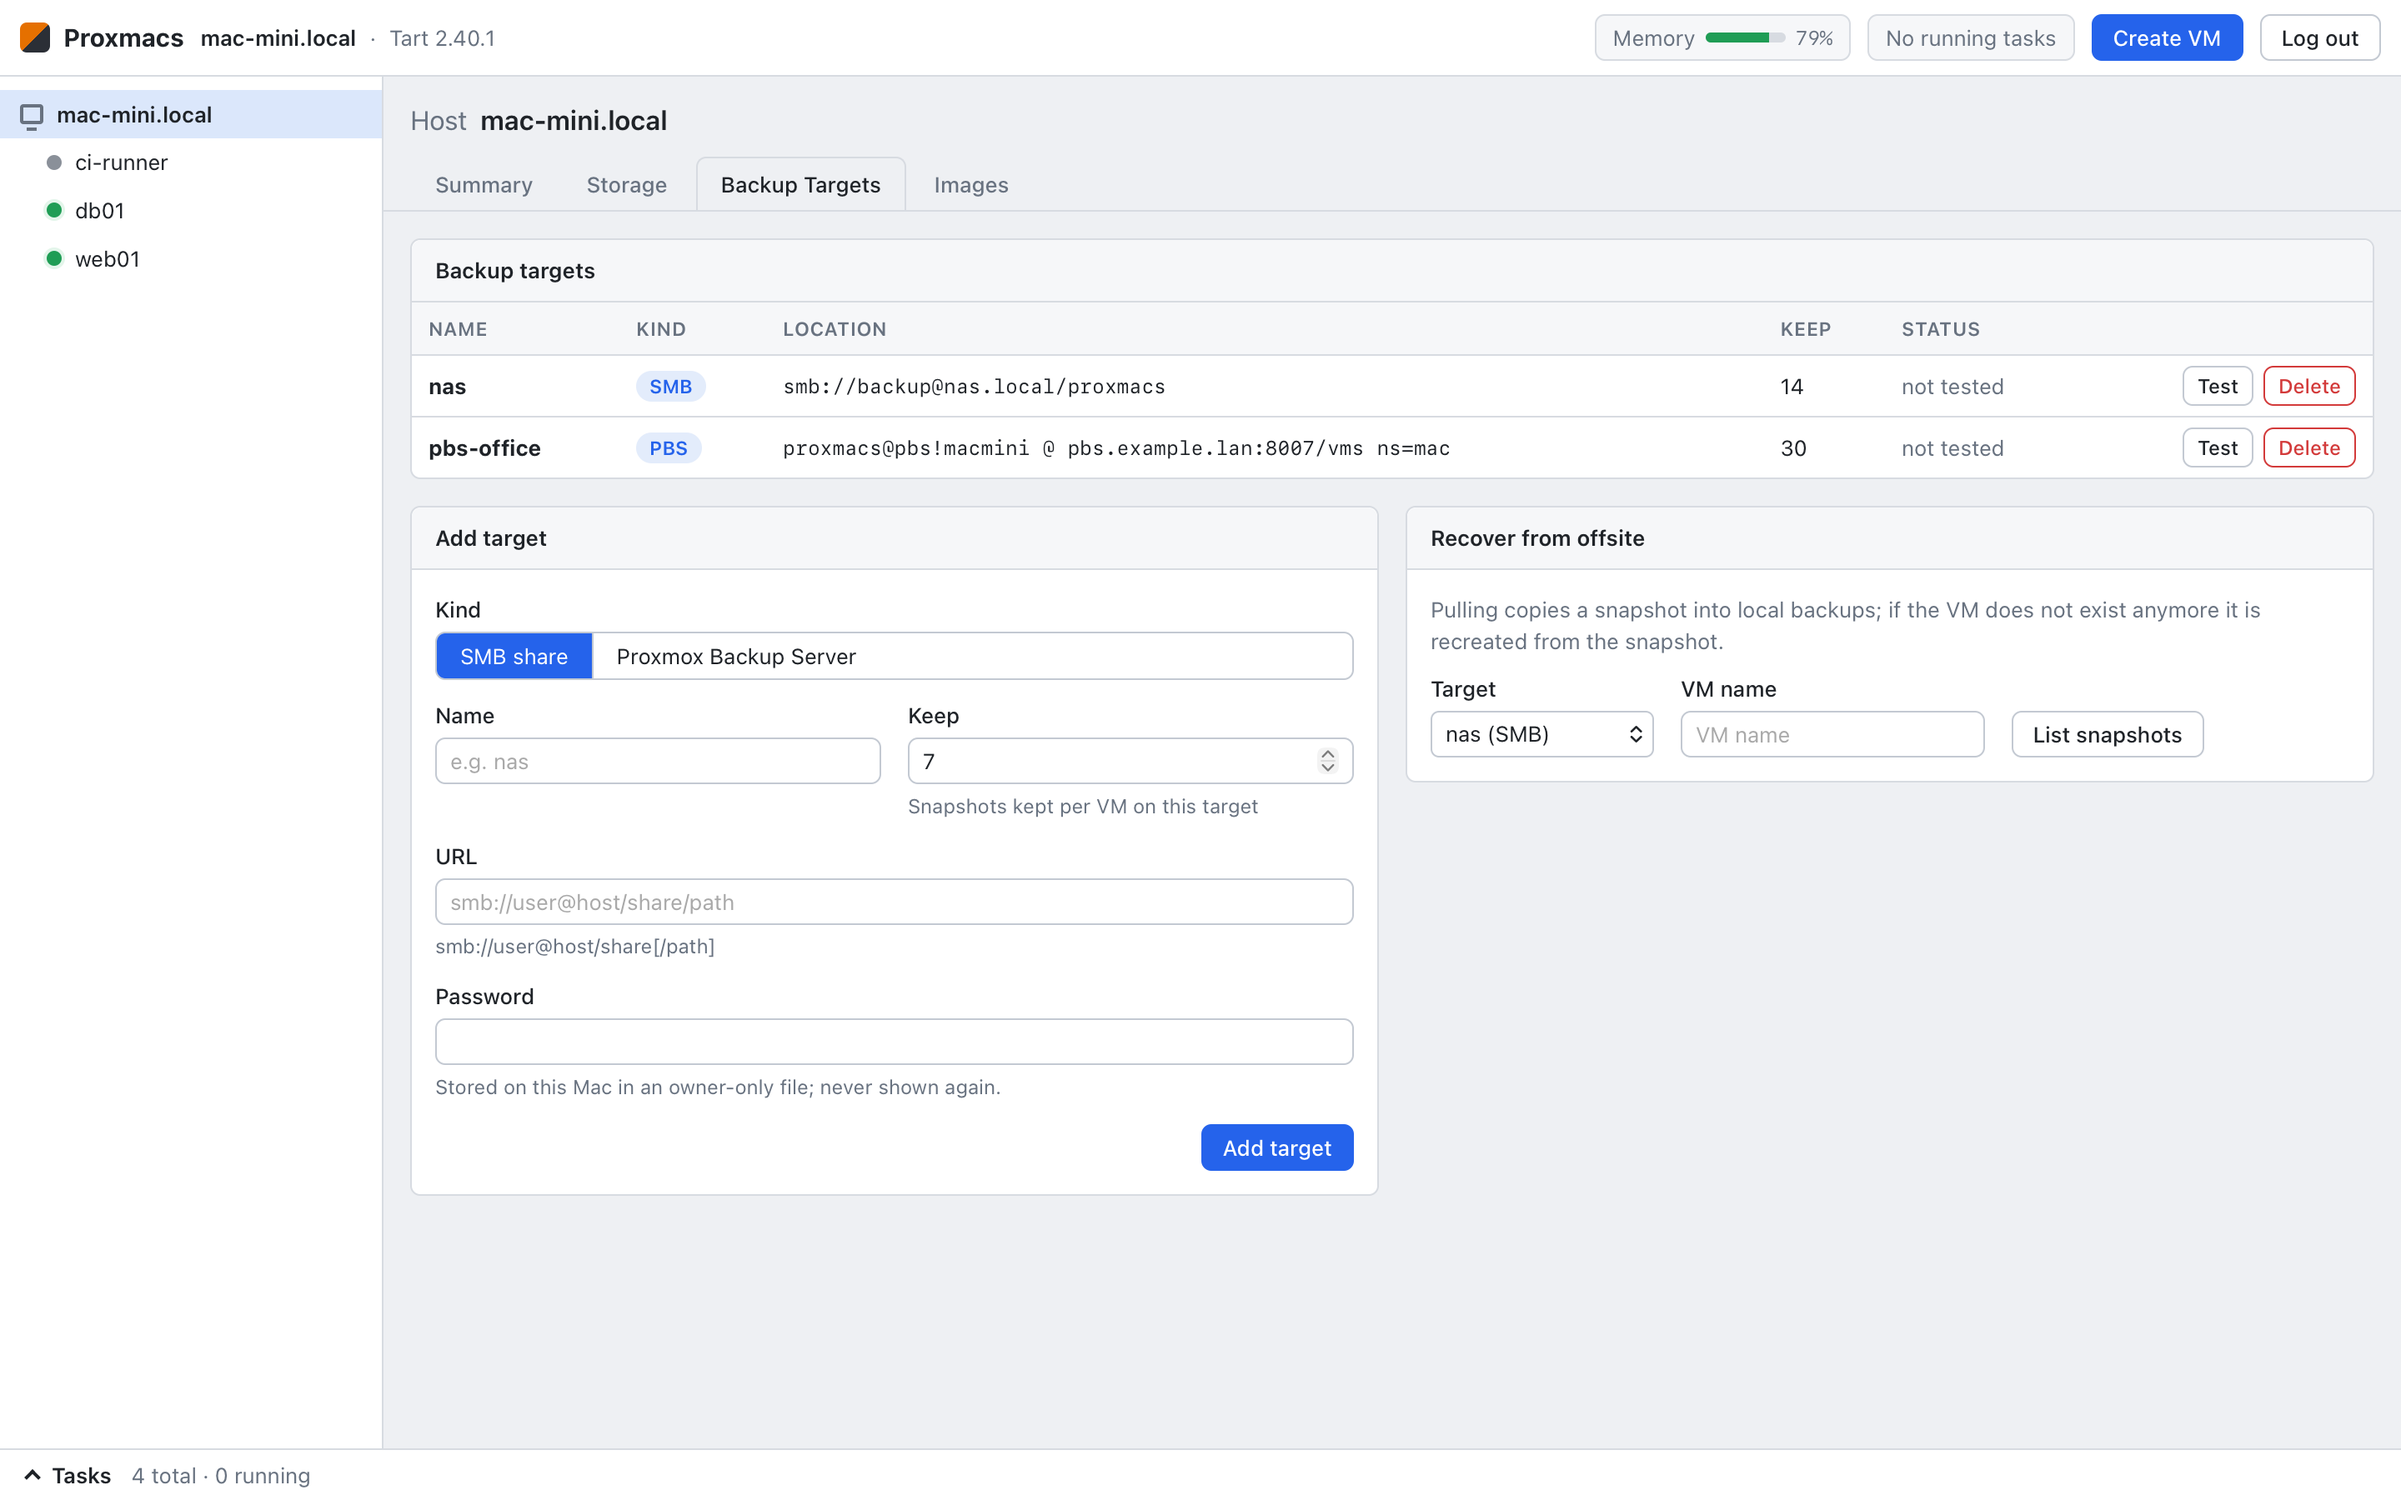
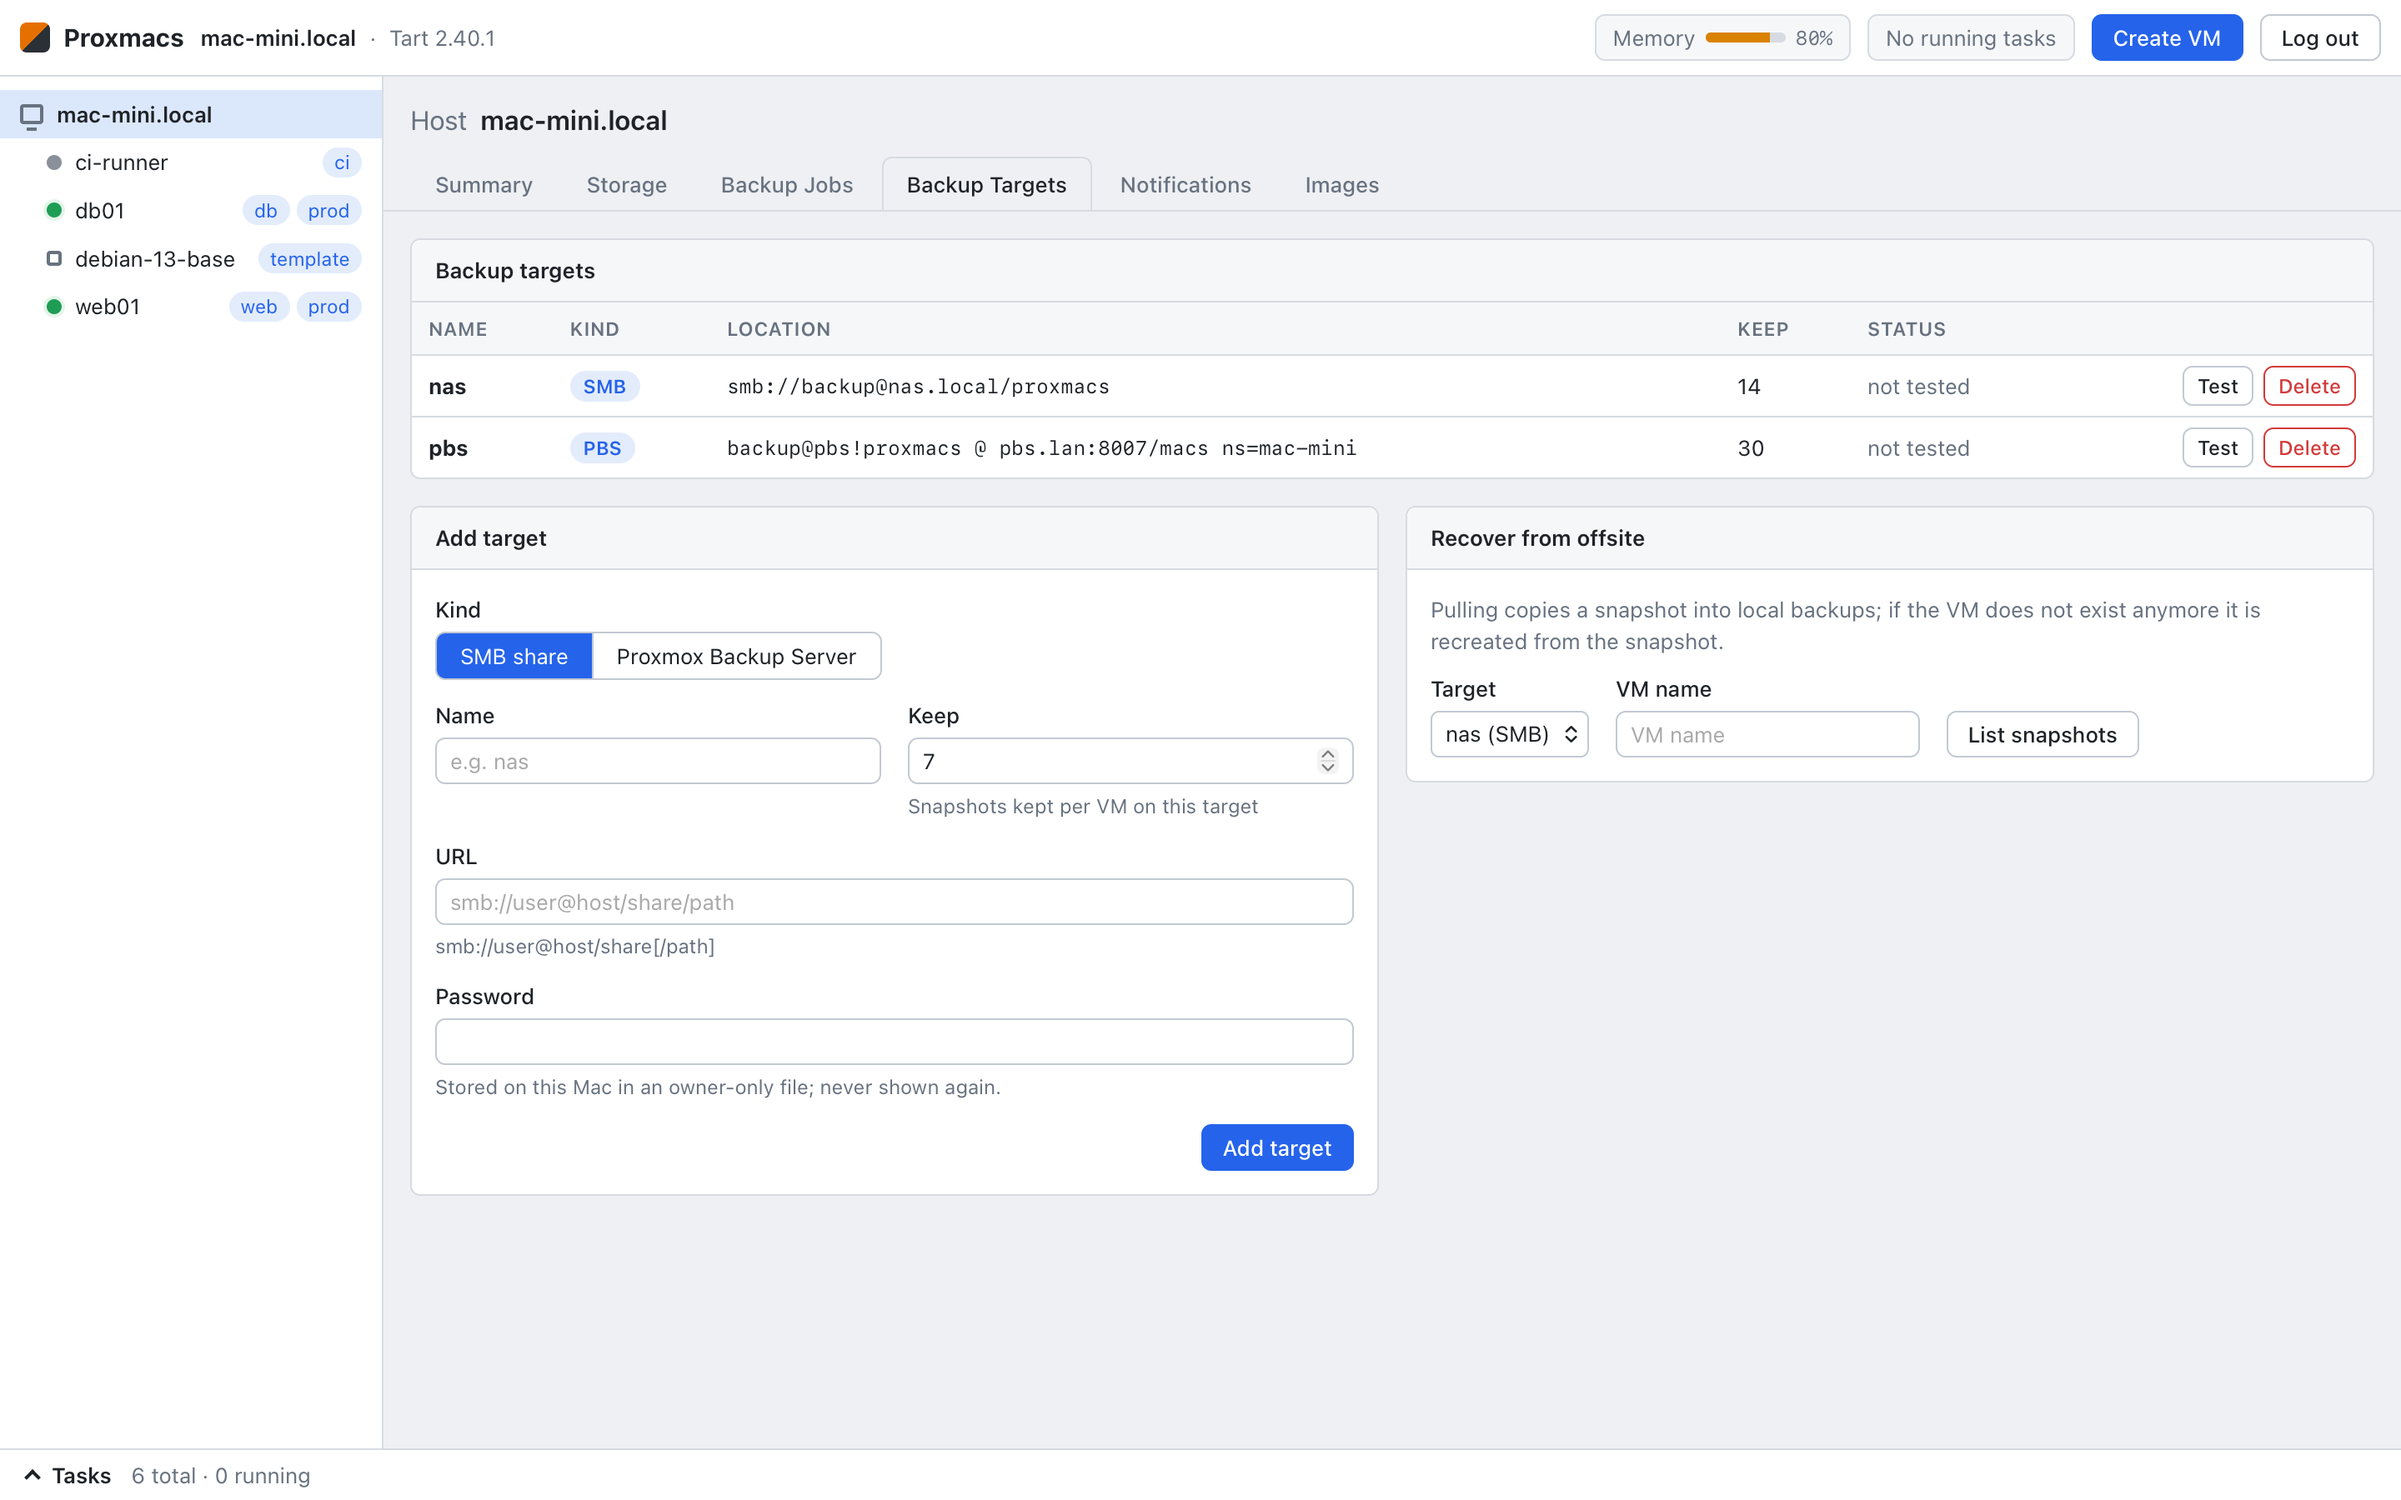
Regenerate screenshots; fix metric gaps and narrow-layout overflow
- Add screenshots of backup jobs, notifications, images and VM options
- Sample VM metrics on their own loop, aligned to the hour chart's
  10 s buckets, so the graphs have no gaps
- Anchor the segmented control's hidden radios to their labels; they
  stretched the page on phones
- Stop clipping tags in the resource tree
- Leave virtiofs shares out of the guest's filesystems: they report
  the Mac's boot volume

diff --git a/scripts/docs-screenshots.swift b/scripts/docs-screenshots.swift
@@ -24,8 +24,9 @@ struct Shot {
 
 let shots = [
     Shot(file: "host-summary", hash: "#/host/summary", size: CGSize(width: 1440, height: 1080), wait: 60, tasks: true),
-    Shot(file: "vm-summary", hash: "#/vm/web01/summary"),
-    Shot(file: "vm-hardware", hash: "#/vm/ci-runner/hardware"),
+    Shot(file: "vm-summary", hash: "#/vm/db01/summary", size: CGSize(width: 1440, height: 1400)),
+    Shot(file: "vm-hardware", hash: "#/vm/db01/hardware", size: CGSize(width: 1440, height: 1100)),
+    Shot(file: "vm-options", hash: "#/vm/web01/options"),
     Shot(file: "vm-cloudinit", hash: "#/vm/web01/cloudinit"),
     Shot(file: "vm-console", hash: "#/vm/web01/console", script: """
         const input = document.querySelector('.xterm-helper-textarea');
@@ -35,10 +36,13 @@ let shots = [
     Shot(file: "vm-backups", hash: "#/vm/web01/backups"),
     Shot(file: "host-storage", hash: "#/host/storage"),
     Shot(file: "host-targets", hash: "#/host/targets"),
+    Shot(file: "host-jobs", hash: "#/host/jobs"),
+    Shot(file: "host-notifications", hash: "#/host/notifications"),
+    Shot(file: "host-images", hash: "#/host/images"),
     Shot(file: "create-vm", hash: "#/host/summary", script: """
         [...document.querySelectorAll('.topbar .btn.primary')].find((b) => b.offsetParent)?.click();
         """),
-    Shot(file: "vm-summary-dark", hash: "#/vm/db01/summary", dark: true),
+    Shot(file: "vm-summary-dark", hash: "#/vm/web01/summary", dark: true),
     Shot(file: "mobile-vm-summary", hash: "#/vm/web01/summary", size: CGSize(width: 390, height: 844)),
     Shot(file: "mobile-menu", hash: "#/vm/web01/summary", size: CGSize(width: 390, height: 844), script: """
         document.querySelector('.nav-toggle')?.click();

diff --git a/web/src/app.css b/web/src/app.css
@@ -149,7 +149,7 @@ select.small { height: 24px; font-size: 12px; padding: 0 4px; }
 fieldset { border: none; padding: 0; margin: 0; min-width: 0; }
 
 .segmented { display: inline-flex; border: 1px solid var(--border-strong); border-radius: var(--radius); overflow: hidden; }
-.segmented label { padding: 4px 14px; cursor: pointer; user-select: none; }
+.segmented label { position: relative; padding: 4px 14px; cursor: pointer; user-select: none; }
 .segmented label + label { border-left: 1px solid var(--border-strong); }
 .segmented input { position: absolute; opacity: 0; pointer-events: none; }
 .segmented label.disabled { opacity: .5; cursor: not-allowed; }
@@ -550,7 +550,8 @@ input.narrow { width: 90px; }
 /* tags */
 .tags { display: inline-flex; flex-wrap: wrap; gap: 4px; }
 .tag { padding: 0 7px; border-radius: 9px; font-size: 11.5px; line-height: 18px; background: var(--info-bg); color: var(--accent); white-space: nowrap; }
-.tree-item .tags { flex: none; max-width: 45%; overflow: hidden; flex-wrap: nowrap; }
+.tree-tags { display: flex; flex: 0 1 auto; min-width: 0; max-width: 45%; overflow: hidden; }
+.tree-tags .tags { flex-wrap: nowrap; }
 .tree-filter { padding: 0 10px 8px; }
 .tree-filter input { width: 100%; }
 .dot.template { background: none; border: 2px solid var(--muted); border-radius: 2px; }

diff --git a/Sources/Proxmacs/App/AppState.swift b/Sources/Proxmacs/App/AppState.swift
@@ -128,18 +128,25 @@ final class AppState {
         JobStore.migrate()
         if autoRefresh {
             Task { await loop() }
+            Task { await sampleLoop() }
         }
     }
 
     private func loop() async {
         while true {
             await refresh()
-            if metrics.due, let tart, vmStorageOnline {
-                hostCPU = HostStats.cpuUsage() ?? hostCPU
-                await metrics.sample(running: vms.filter(\.isRunning), tart: tart)
-            }
             await runScheduledJobs()
             try? await Task.sleep(for: .seconds(5))
+        }
+    }
+
+    /// Separate from `loop`, whose rounds take as long as Tart does.
+    private func sampleLoop() async {
+        while true {
+            try? await Task.sleep(for: VMMetrics.untilNextSample)
+            guard let tart, vmStorageOnline else { continue }
+            hostCPU = HostStats.cpuUsage() ?? hostCPU
+            await metrics.sample(running: vms.filter(\.isRunning), tart: tart)
         }
     }
 

diff --git a/Sources/Proxmacs/Model/VMMetrics.swift b/Sources/Proxmacs/Model/VMMetrics.swift
@@ -52,12 +52,15 @@ final class VMMetrics {
     private var agentBackoff: [String: Date] = [:]
     private(set) var latest: [String: VMSample] = [:]
     private(set) var started: [String: Date] = [:]
-    private var lastSample = Date.distantPast
 
-    var due: Bool { Date().timeIntervalSince(lastSample) >= 9.5 }
+    /// Time until just after the next hour-chart bucket starts. Sampling then puts one sample in every
+    /// bucket; a fixed interval drifts by the time each round takes and leaves gaps in the chart.
+    static var untilNextSample: Duration {
+        let step = MetricsRange.hour.step
+        return .milliseconds(Int((step - Date().timeIntervalSince1970.truncatingRemainder(dividingBy: step) + 0.5) * 1000))
+    }
 
     func sample(running: [VMItem], tart: Tart) async {
-        lastSample = Date()
         let names = Set(running.map(\.name))
         for gone in Set(previous.keys).subtracting(names) {
             previous[gone] = nil

diff --git a/web/src/components/Shell.tsx b/web/src/components/Shell.tsx
@@ -154,7 +154,7 @@ function Tree({ route, navigate, open, onLogout }: { route: Route; navigate: Nav
                     onClick={() => navigate({ type: 'vm', name: vm.name, tab: route.type === 'vm' ? route.tab : 'summary' })}>
                     {vm.template ? <span className="dot template" /> : <StateDot state={vm.state} />}
                     <span className="label">{vm.name}</span>
-                    <span className="wide-only"><Tags tags={vm.tags.slice(0, 2)} /></span>
+                    {!!vm.tags.length && <span className="tree-tags wide-only"><Tags tags={vm.tags.slice(0, 2)} /></span>}
                     {vm.activity && <Spinner title={vm.activity} />}
                   </button>
                 </li>

diff --git a/Sources/Proxmacs/Model/GuestInfo.swift b/Sources/Proxmacs/Model/GuestInfo.swift
@@ -31,7 +31,7 @@ struct GuestInfo: Sendable {
         echo @hostname; hostname
         echo @uptime; cat /proc/uptime
         echo @ip; ip -j addr 2>/dev/null
-        echo @df; df -PT -B1 -x tmpfs -x devtmpfs -x overlay -x squashfs -x efivarfs 2>/dev/null
+        echo @df; df -PT -B1 -x tmpfs -x devtmpfs -x overlay -x squashfs -x efivarfs -x virtiofs 2>/dev/null
         """
 
     static func fetch(_ vm: String, tart: Tart) async throws -> GuestInfo {

diff --git a/README.md b/README.md
@@ -56,10 +56,12 @@ A Proxmox-flavoured menubar VM manager for Apple Silicon Macs, built on [Tart](h
 
 | | |
 | --- | --- |
-| ![VM summary](docs/vm-summary.png) VM summary | ![Serial console](docs/vm-console.png) Serial console in the browser |
+| ![VM summary](docs/vm-summary.png) VM summary: usage, guest agent info, notes and performance graphs | ![Serial console](docs/vm-console.png) Serial console in the browser |
 | ![Create VM](docs/create-vm.png) Create VM | ![Cloud-init](docs/vm-cloudinit.png) Cloud-init settings |
-| ![Hardware](docs/vm-hardware.png) Hardware | ![Backups](docs/vm-backups.png) Local backups and schedule |
-| ![Storage](docs/host-storage.png) VM disks and backups on an external drive | ![Backup targets](docs/host-targets.png) Offsite targets (SMB, Proxmox Backup Server) |
+| ![Hardware](docs/vm-hardware.png) Hardware, extra disks and shared folders | ![Options](docs/vm-options.png) Start on login, start order and tags |
+| ![Backups](docs/vm-backups.png) Local backups and retention | ![Backup jobs](docs/host-jobs.png) Scheduled backup jobs |
+| ![Backup targets](docs/host-targets.png) Offsite targets (SMB, Proxmox Backup Server) | ![Notifications](docs/host-notifications.png) Notification webhooks (Discord, Slack, ntfy, JSON) |
+| ![Storage](docs/host-storage.png) VM disks and backups on an external drive | ![Images](docs/host-images.png) Cloud image catalog |
 | ![Dark mode](docs/vm-summary-dark.png) Dark mode | <img src="docs/mobile-vm-summary.png" alt="Phone" width="180"> <img src="docs/mobile-menu.png" alt="Phone menu" width="180"><br>On a phone |
 
 Regenerate them with `scripts/docs-screenshots.swift` (see the comment at its top).
